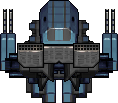
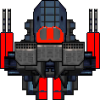
Different robot = different picture, modified by yours truly :D

diff --git a/src/main/java/inf112/skeleton/app/view/BoardRenderer.java b/src/main/java/inf112/skeleton/app/view/BoardRenderer.java
@@ -32,11 +32,26 @@ public class BoardRenderer extends OrthogonalTiledMapRenderer {
     //TODO update for several robots instead of static 0
     private void loadTextures() {
         TextureRegion robotFacingNorth = new TextureRegion(new Texture("Player/Mechs/Mech1A_north.png"));
+        TextureRegion robot2FacingNorth = new TextureRegion(new Texture("Player/Mechs/Mech2.png"));
+        TextureRegion robot3FacingNorth = new TextureRegion(new Texture("Player/Mechs/Mech3.png"));
+        TextureRegion robot4FacingNorth = new TextureRegion(new Texture("Player/Mechs/Mech4.png"));
         TiledMapTileLayer.Cell robotCell;
         robotsToCellsHashMap = new IdentityHashMap<>();
+        int i = 0;
         // associate robots with cells for the robot layer of the map
         for (Robot robot : gameModel.getRobots()) {
             robotCell = new TiledMapTileLayer.Cell().setTile(new StaticTiledMapTile(robotFacingNorth));
+
+            i++;
+            if (i ==2){
+                robotCell = new TiledMapTileLayer.Cell().setTile(new StaticTiledMapTile(robot2FacingNorth));
+            }
+            if (i == 3){
+                robotCell = new TiledMapTileLayer.Cell().setTile(new StaticTiledMapTile(robot3FacingNorth));
+            }
+            if (i==4){
+                robotCell = new TiledMapTileLayer.Cell().setTile(new StaticTiledMapTile(robot4FacingNorth));
+            }
             robotsToCellsHashMap.put(robot, robotCell);
         }
     }
